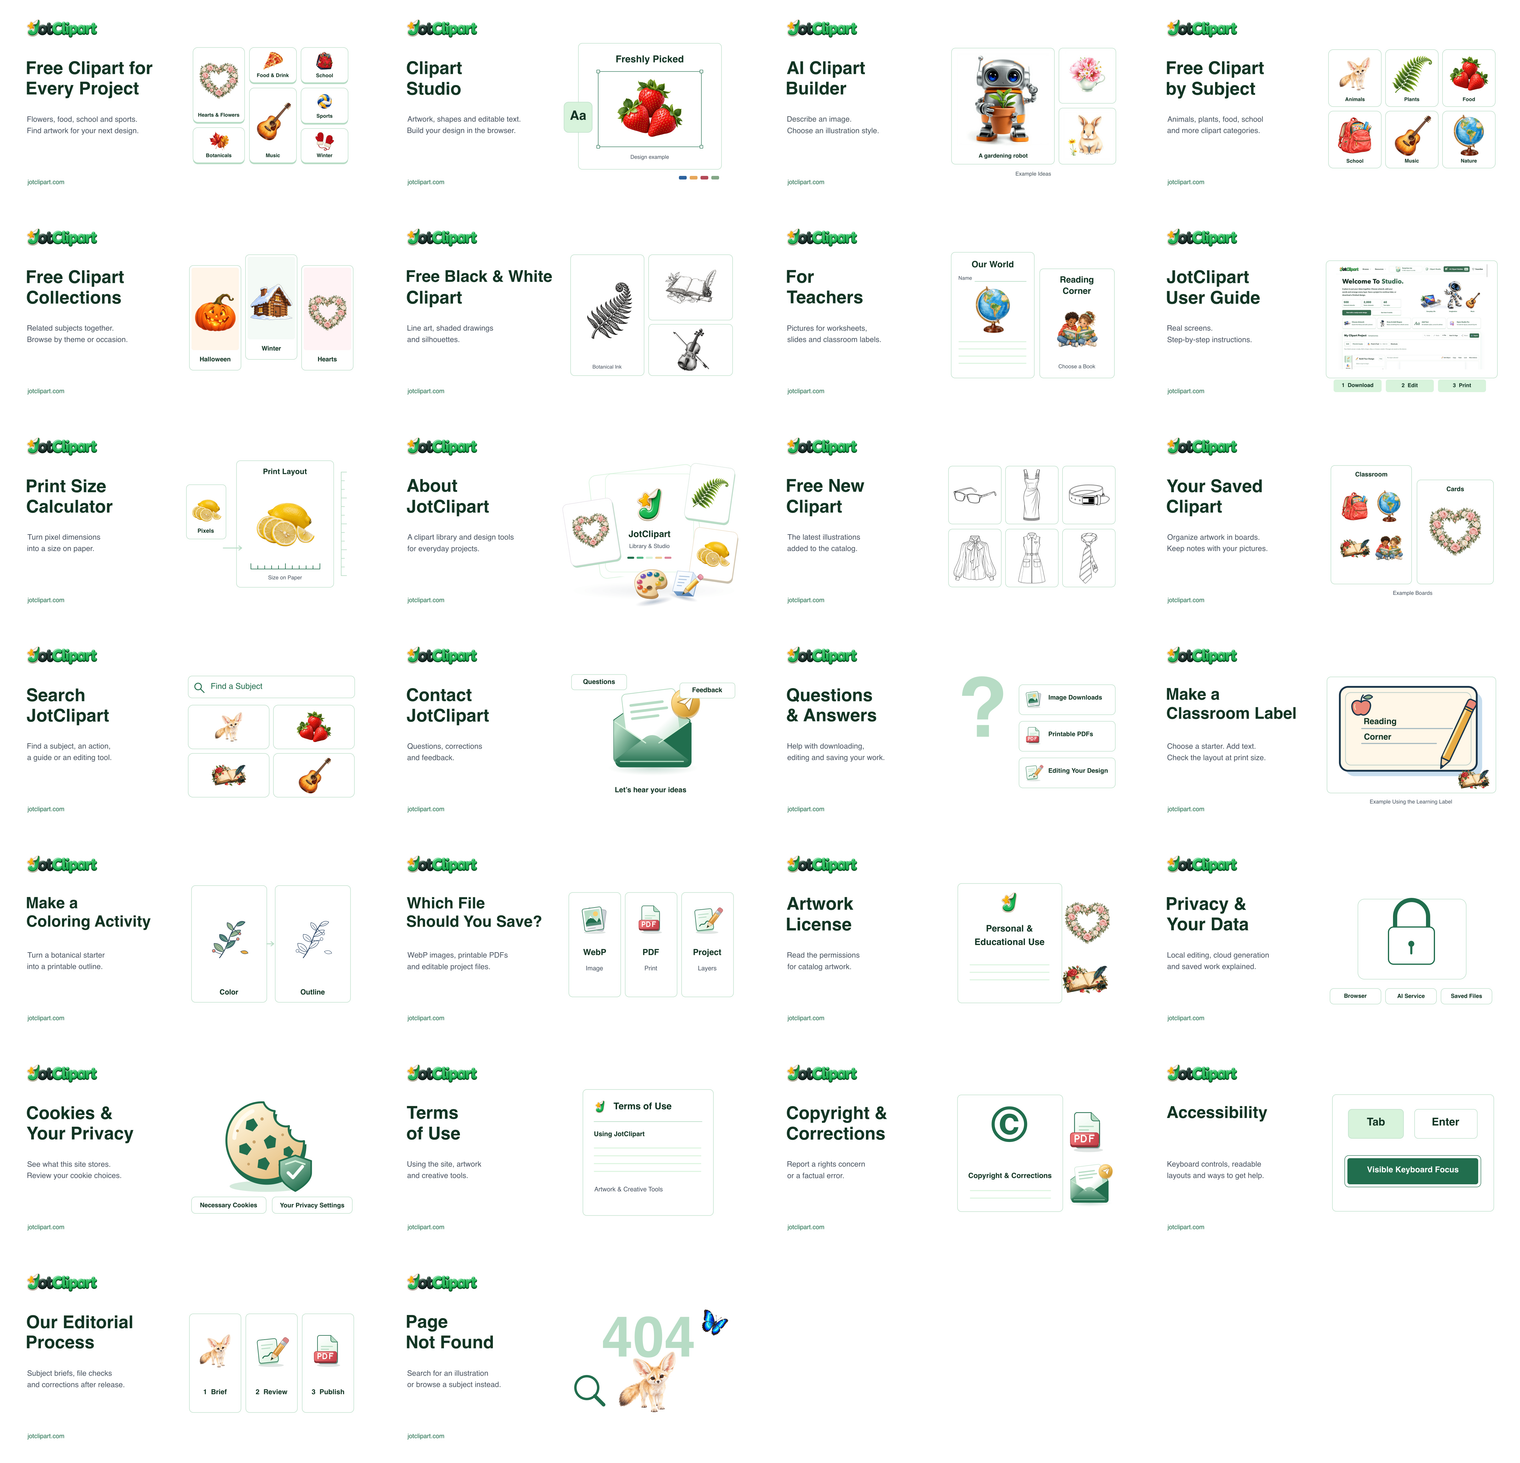
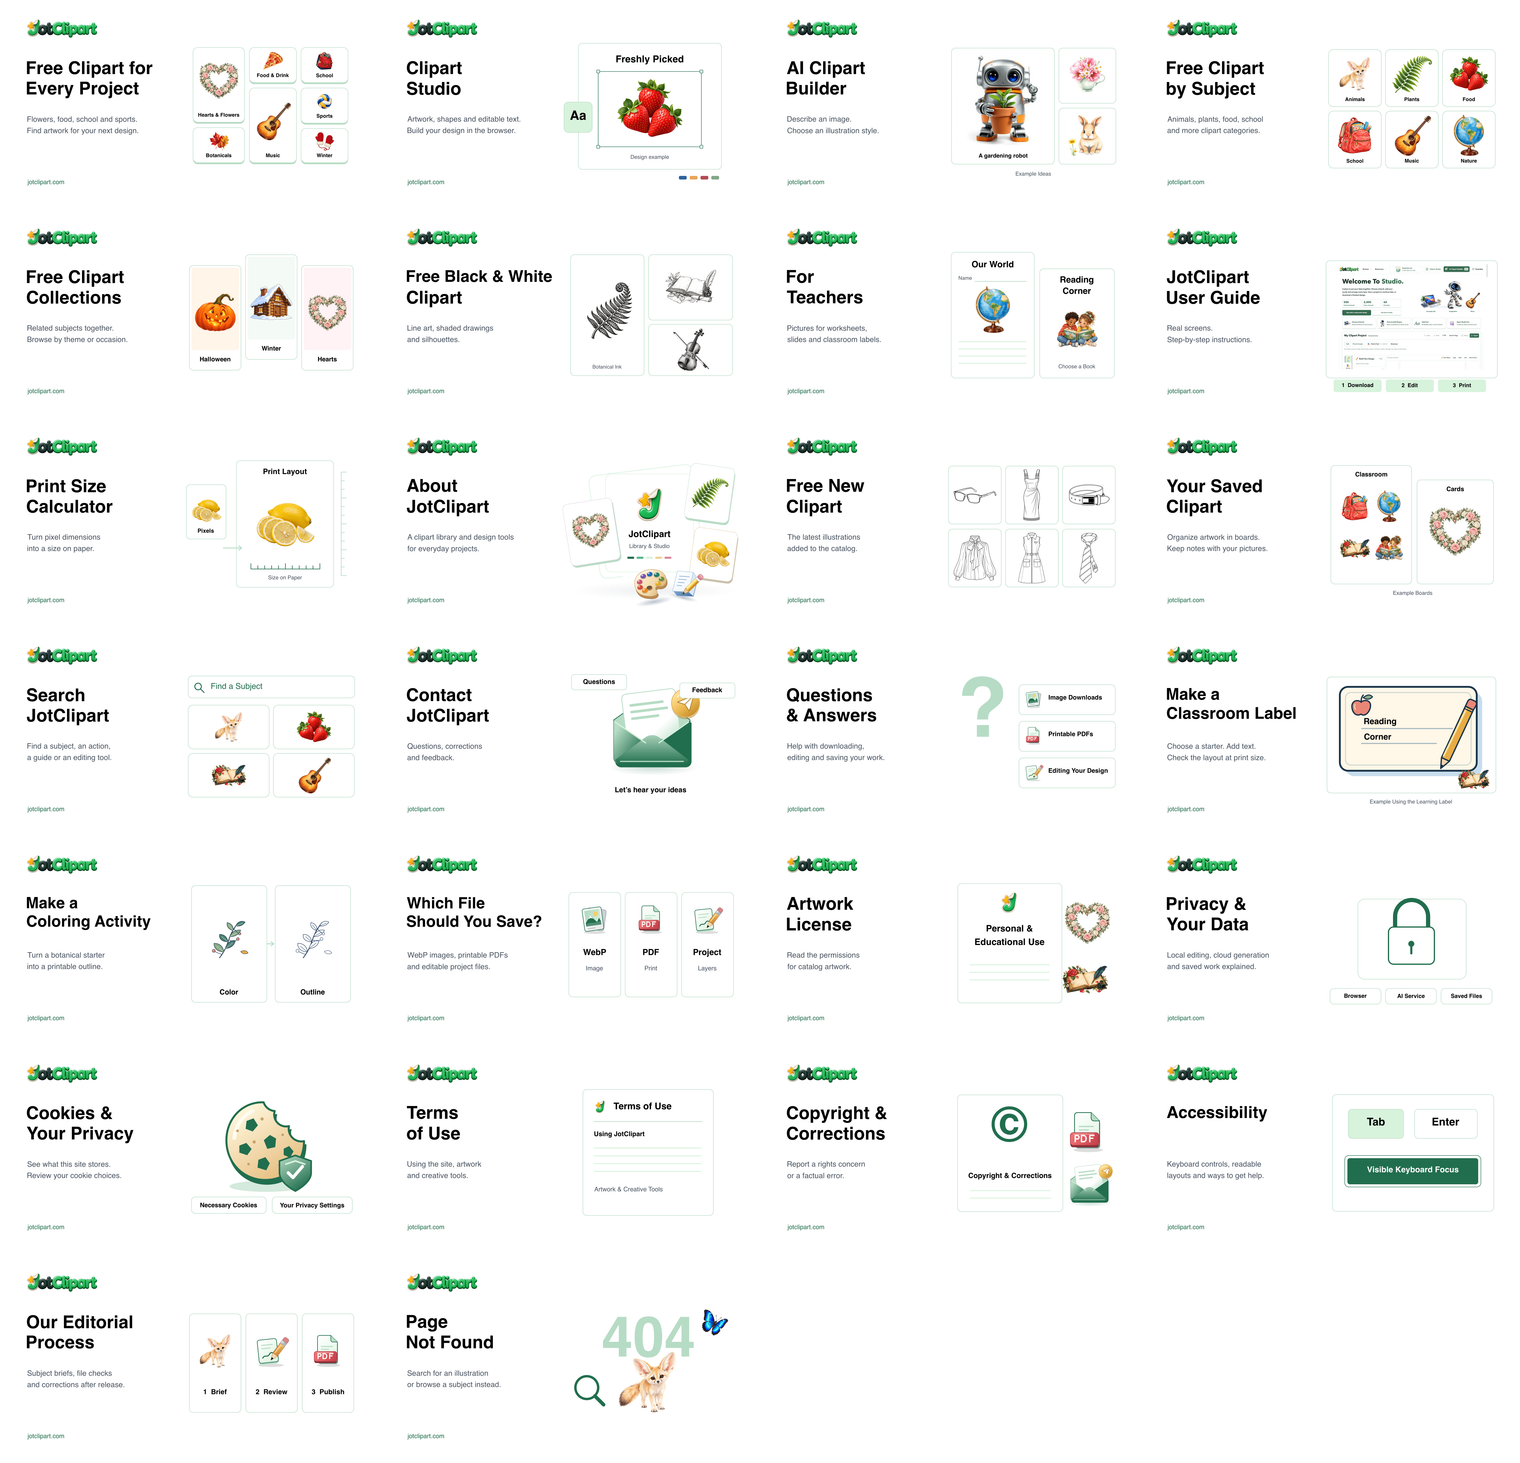
Refresh verified black social covers and legacy related previews

diff --git a/src/lib/related/engine.ts b/src/lib/related/engine.ts
@@ -222,7 +222,7 @@ function card(result: Ranked, group: RelatedCard['group']): RelatedCard {
   const reason = artworkCardSummary(item);
   const loadingPreview = imageLoadingPreview({
     webp: publicBrandURL(item.webp!),
-    originalThumb: publicBrandURL(item.originalThumb),
+    originalThumb: publicBrandURL(item.originalThumb || item.thumb),
     files: item.files,
   });
   return {
